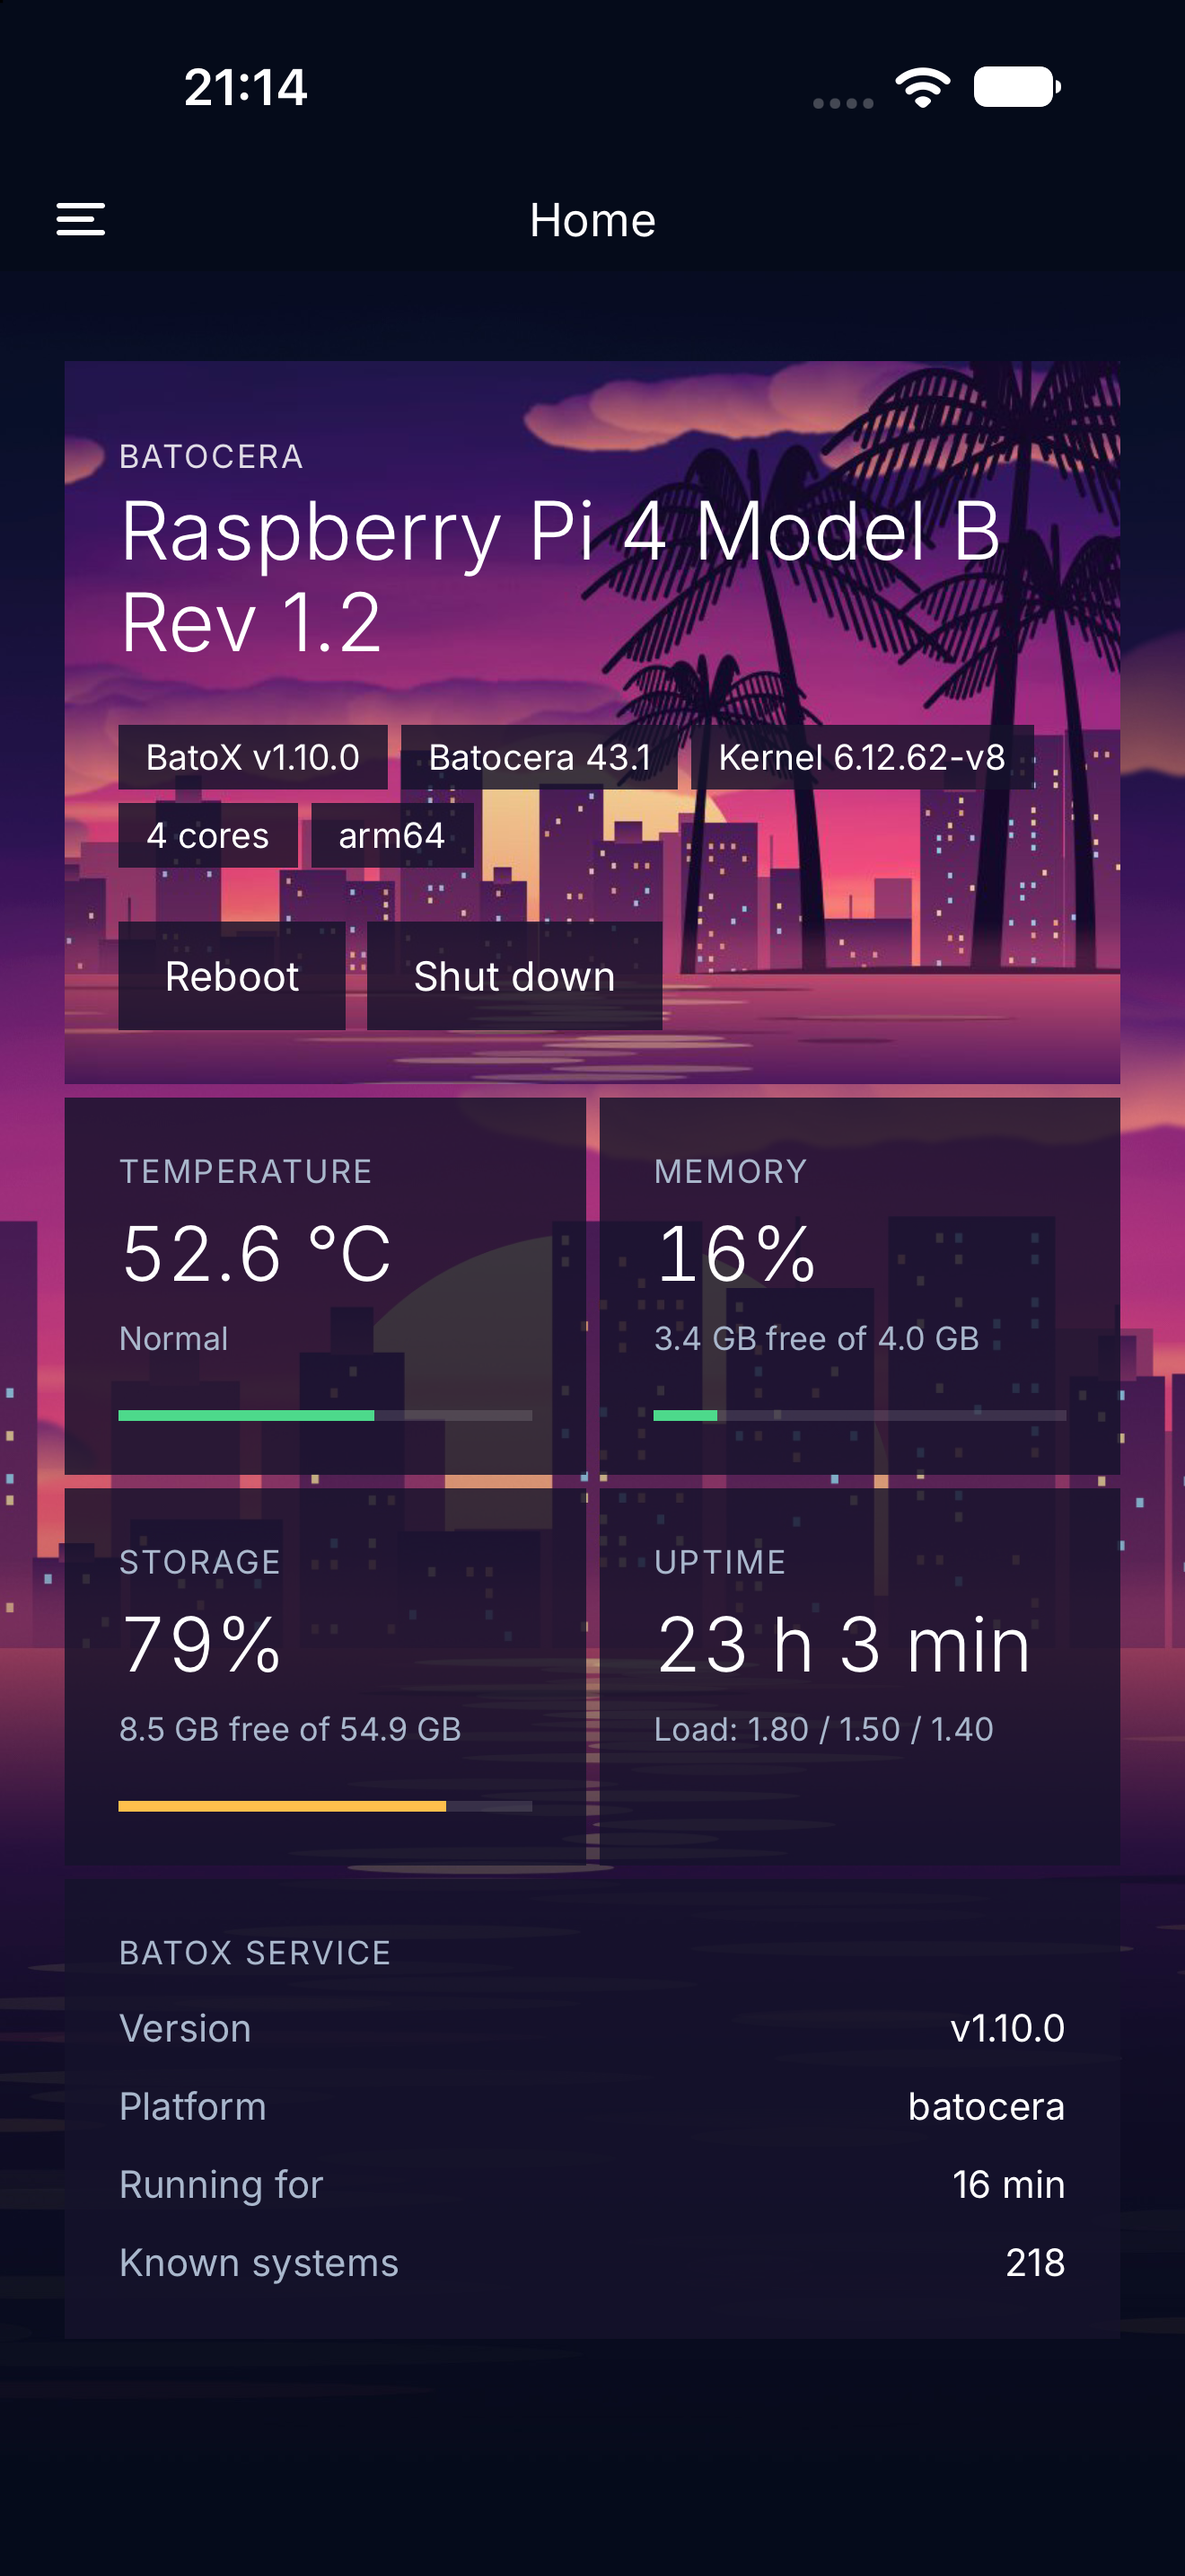
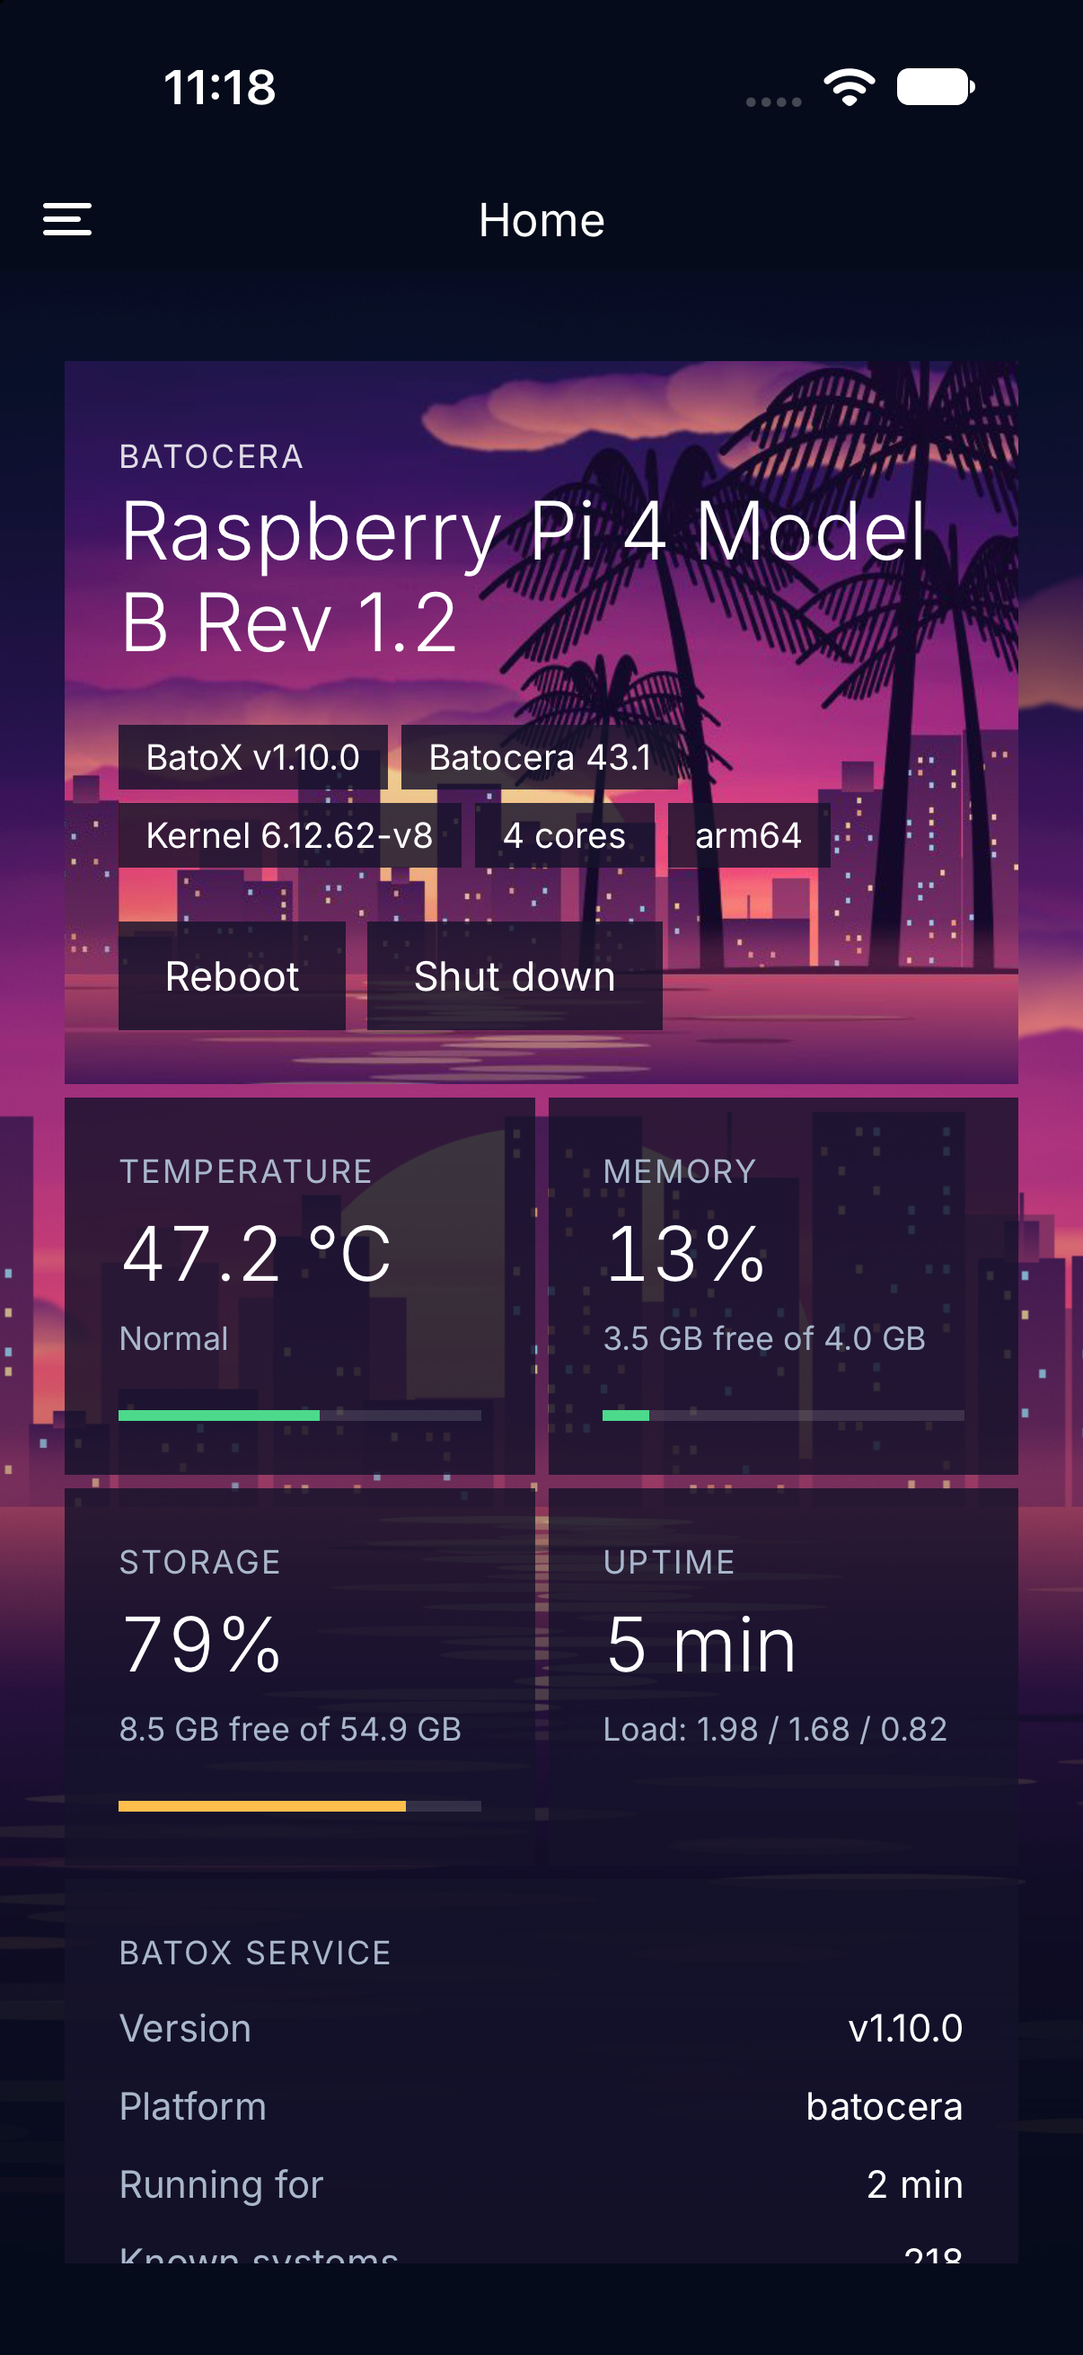
Retake the App Store screenshots and record the submission
The screenshots are 1206 x 2622, for iPhone with Dynamic Island
(medium display), taken on the iPhone 18 Pro simulator against the Pi.
The listing answers now include Content Rights, the license, and China
mainland left out (it needs Chinese filings). Version 1.0.1 (4) went to
App Review on 2026-11-27.

diff --git a/docs/app-store.md b/docs/app-store.md
@@ -82,6 +82,8 @@ the team; no review by Apple), install **TestFlight** on an iPhone and check aga
 - installing BatoX over SSH, the home, a message on the TV, the timer, uploading a file from
   Files, a setting.
 
+Build 1.0.1 (4) was installed from TestFlight on an iPhone and works against the Pi.
+
 ## 4. Export compliance (encryption)
 
 The app has its own SSH client (`src/ssh/`, on the @noble libraries), so it implements standard
@@ -134,7 +136,16 @@ platforms, so the text doesn't mention Android.
 - **Marketing URL**: https://github.com/monteirohat/BatoX
 - **Privacy policy URL**: https://github.com/monteirohat/batox-mobile/blob/main/PRIVACY.md
 - **Copyright**: `2026 Algore Tecnologia`
-- **Price**: free. **Availability**: every country but France (section 4).
+- **Content Rights**: no third-party content. The app has no catalog and plays or delivers nothing;
+  it only lists what is already on the user's own console.
+- **License Agreement**: Apple's standard EULA. The source is MIT, which doesn't clash with it
+  (GPL would).
+- **Price**: free. **Availability**: every country but France (section 4) and China mainland.
+  China mainland asks for proof of a Security Assessment, an AI-generated content (AIGC)
+  declaration and an ICP filing number, all from Chinese authorities: App Store Connect won't take
+  the version for review without them while China mainland is ticked. Hong Kong, Macau and Taiwan
+  are separate storefronts without these, and stay in.
+- **Mac and Apple Vision Pro**: off (Pricing and Availability), until the app is tested there.
 
 ## 6. Screenshots
 
@@ -142,10 +153,11 @@ The app is for iPhone only (`supportsTablet: false`): iPads run it as an iPhone 
 listing needs no iPad screenshots, and since iOS 27 an iPad app has to work in windows of any size.
 An app released for iPad can't drop it later; adding it later is allowed.
 
-App Store Connect needs the **6.9" iPhone** set and scales it for the smaller iPhones. They are in
-[store/ios/](../store/ios/), 1320 × 2868, the same six screens as on Google Play, in the same
-order. They were taken on the **iPhone 18 Pro Max** simulator, with a console on the menu (no game
-running, so no game's name or picture shows):
+App Store Connect asks for one set, **iPhone with Dynamic Island (medium display)**, at 1179 × 2556
+or 1206 × 2622, and scales it for the other iPhones. They are in [store/ios/](../store/ios/),
+1206 × 2622, the same six screens as on Google Play, in the same order. They were taken on the
+**iPhone 18 Pro** simulator, with a console on the menu (no game running, so no game's name or
+picture shows):
 
 ```bash
 xcrun simctl io booted screenshot shot.png
@@ -154,6 +166,9 @@ ffmpeg -i shot.png -pix_fmt rgb24 store/ios/2-home.png    # App Store Connect re
 
 `simctl status_bar … override` doesn't take on the iOS 27.2 simulator, so the status bar shows the
 real time; Apple doesn't require a clean one.
+
+The **Header and Search Results** image (the wide banner above the screenshots) is optional; the
+listing shows the screenshots without it.
 
 ## 7. App Privacy
 
@@ -192,6 +207,8 @@ is the main risk. Fill **App Review Information** with:
 
 If Apple still asks to try it, the answer is a demo mode with a simulated console; it doesn't exist
 yet.
+
+Version 1.0.1 (build 4) was submitted on 2026-11-27, released automatically once approved.
 
 ## 10. Before each release
 
